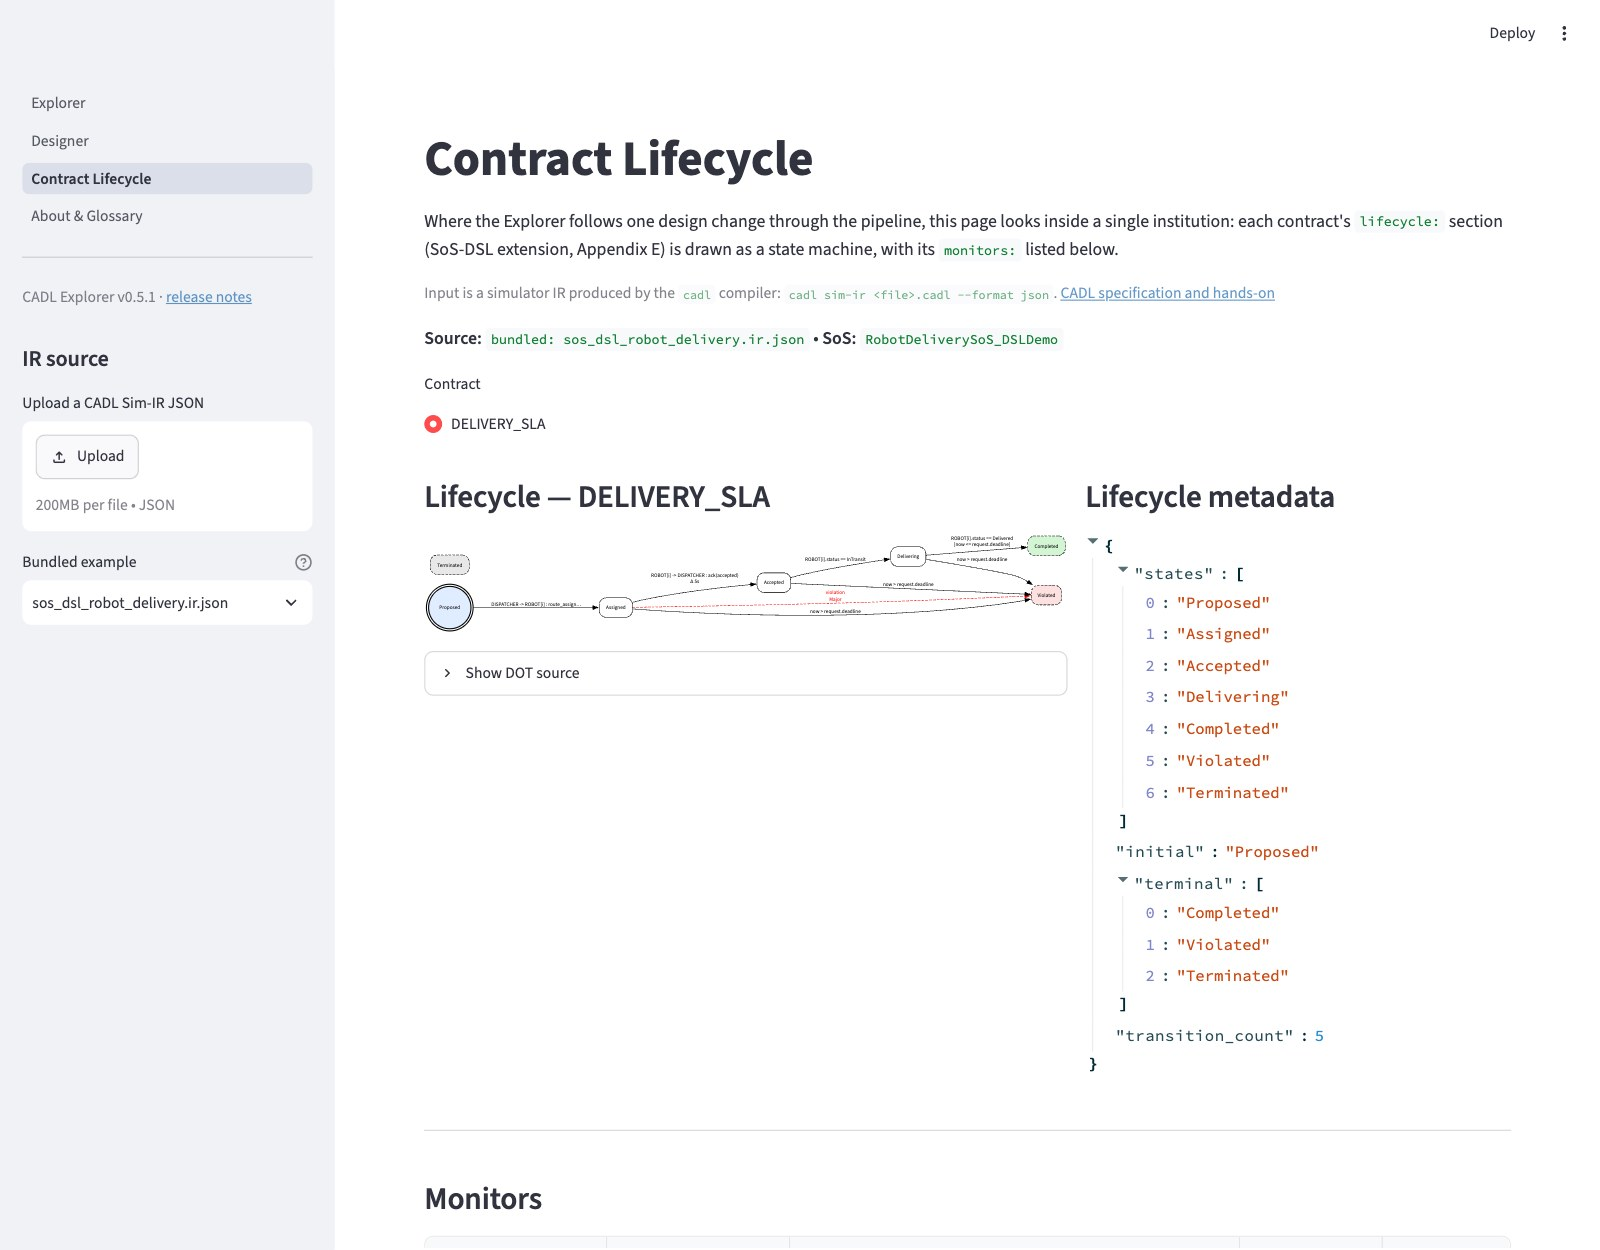
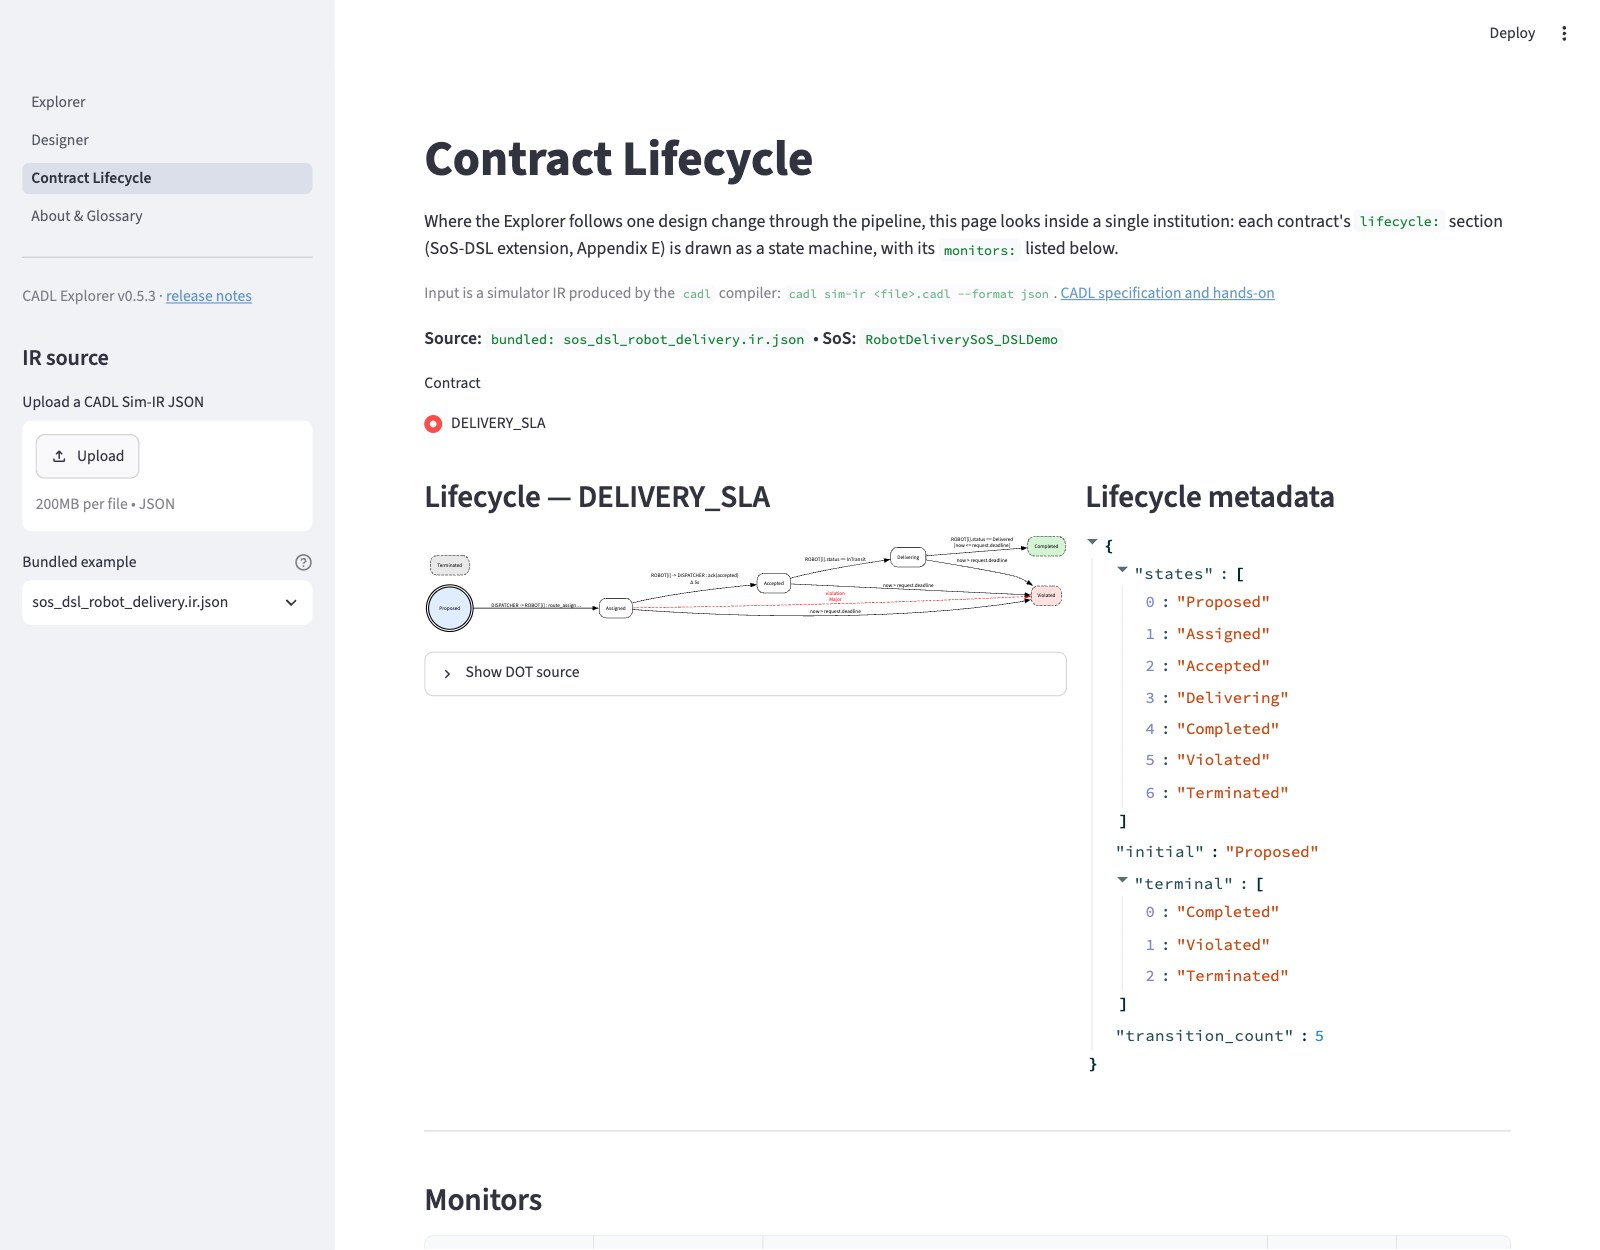
Review round 11: describe cadl 0.3.13 and CADL Explorer v0.5.3; fixes (#37)
Specification (EN and JA):
- 5.2.4: else branch and barrier condition are retained from cadl 0.3.10
- glossary autonomy: checked from 0.3.10; used by sim-gen -t go
- 6.2.2: item (7) for the id and value checks of A.12
- A.12: when: and non-message on: are not checked for actors; unquoted
  true / false names before 0.3.13; checked against 0.3.13
- E.4: what earlier releases did with unreadable deadlines
- E.7: the IR excerpt shows violation_detect / violation_action
- version mentions: cadl 0.3.13

Hands-on and Quick Start (EN and JA):
- CADL Explorer v0.5.3; the three Explorer screenshots retaken from it
  (current monitor rule, version in the sidebar)
- Course B section 3: what the excerpt omits

README: deployment section describes how this site is published.

Every changed statement was checked against cadl 0.3.13, CADL Explorer
v0.5.3 and the Course B file before merging.

diff --git a/i18n/ja/docusaurus-plugin-content-docs/current/spec/appendix-a-syntax.md b/i18n/ja/docusaurus-plugin-content-docs/current/spec/appendix-a-syntax.md
@@ -380,16 +380,18 @@ AND    OR    NOT    true    false    for all    exists    in
 項目の中では，名前が添字付きである（`ROBOT[i]`）か，メンバーアクセスの対象である
 （`ROBOT.battery`）とき，添字の中に現れる場合も含めて，その名前はアクターへの参照と
 みなされ，宣言されていなければならない。単独で現れる名前は状態変数とみなされ，
-検査されない。`condition:`，`safety_invariant:`，`formula:`，`expr:`，およびモニターの
-`rule:` の述語については，未宣言のアクターの検査を行わない。それ以外の必須キーが
-欠けている場合は，空の値で置き換える。`cadl` 0.3では，次の点で本付録と相違する（`cadl` 0.3.12で確認）。
+検査されない。`condition:`，`safety_invariant:`，`formula:`，`expr:`，モニターの
+`rule:`，ライフサイクルの `when:`，およびメッセージイベントでない `on:` の述語については，未宣言のアクターの検査を行わない。それ以外の必須キーが
+欠けている場合は，空の値で置き換える。`cadl` 0.3では，次の点で本付録と相違する（`cadl` 0.3.13で確認）。
 
-- **式。** `cadl` 0.3.12では，式はA.10とA.11に従う。既知の相違はない。
+- **式。** `cadl` 0.3.13では，式はA.10とA.11に従う。既知の相違はない。
 - **識別子。** `cadl` 0.3.9からは，`cadl check` は，アクター，契約，プロトコル，メトリクスのid，
   および運用モードの名前が，A.1の識別子でない場合（たとえば非ASCII文字やハイフンを含む場合），
   またはA.11の予約語か[付録E](./appendix-e-sos-dsl.md)の `IN` である場合に，エラーとして報告する。
   `cadl` 0.3.10からは，ライフサイクルの状態の名前，ライフサイクルの遷移とモニターのid，
   およびモニターの違反ラベルにも同じ検査が適用される。検証項目のidは検査されない。
+  `cadl` 0.3.12までは，これらの名前や運用モードの名前に引用符なしで書いた `true` / `false` は
+  YAMLが真偽値として読み，`True` / `False` という名前として受理されていた。
 - **範囲。** 上限が記号である範囲（`"TAXI[1..N]"`）は，書かれたとおりに保持される。
   `N` を `environment:` から引くことはなく，添字が宣言された範囲に収まるかどうかも
   検査されない。`cadl sim-gen` が `count` を出力するのは，両端が整数のときだけである。

diff --git a/i18n/ja/docusaurus-plugin-content-docs/current/spec/05-language-spec.md b/i18n/ja/docusaurus-plugin-content-docs/current/spec/05-language-spec.md
@@ -158,7 +158,7 @@ sos:
       expr: "weekly_reward >= 0 AND weekly_reward <= 400"
 ```
 
-このブロックを追加したファイルを，`cadl verify`（`cadl` 0.3.12）は受理し，2つの項目をどちらも合格と報告する。`expr:` を持つ項目については，述語が充足可能であることだけを検査し，モデルに対して証明することはしない（[付録AのA.12節](./appendix-a-syntax.md#a12-reference-implementation-status-v03)）。
+このブロックを追加したファイルを，`cadl verify`（`cadl` 0.3.13）は受理し，2つの項目をどちらも合格と報告する。`expr:` を持つ項目については，述語が充足可能であることだけを検査し，モデルに対して証明することはしない（[付録AのA.12節](./appendix-a-syntax.md#a12-reference-implementation-status-v03)）。
 
 [7.1節](./07-examples.md)は，検証レベルが目指す矛盾検出を例示する（[1.2節の目的2](./01-introduction.md#目的2-sosの制度違反や矛盾を計算できるようにする)）。7.1節の記述例は概念的なものであり，A.8節のキーとは異なるキーを用いている（第7章冒頭の注記を参照）。このように，同一の制度が利用者のニーズに応じて異なる粒度で記述でき，AIが概要レベルから設計・検証レベルへの精緻化を支援する。
 
@@ -289,7 +289,7 @@ contracts:
 - **`parallel:`** — その下に並べたステップは互いの順序が定まっておらず，それらがすべて完了するとプロトコルは先へ進む。
 - **`barrier:`** — 同期点である。与えた条件が成り立つときにだけ，プロトコルは先へ進む。
 
-リファレンス実装（`cadl` 0.3）は，`else:` の分岐とバリアの条件を保持しない（[付録AのA.12節](./appendix-a-syntax.md#a12-reference-implementation-status-v03)）。
+`cadl` 0.3.10からは，リファレンス実装は `else:` の分岐とバリアの条件を保持する。それより前のリリースは，これらを捨てていた（[付録AのA.12節](./appendix-a-syntax.md#a12-reference-implementation-status-v03)）。
 
 ```yaml
 protocols:

diff --git a/docs/spec/appendix-a-syntax.md b/docs/spec/appendix-a-syntax.md
@@ -413,11 +413,12 @@ must be declared, when it is indexed (`ROBOT[i]`) or is the object of a
 member access (`ROBOT.battery`), including inside an index; a name
 standing alone is taken as a state variable and is not checked. The
 predicates of `condition:`, `safety_invariant:`, `formula:`, `expr:`,
-and monitor `rule:` are not checked for undeclared actors. Other
+monitor `rule:`, lifecycle `when:`, and an `on:` that is not a message
+event are not checked for undeclared actors. Other
 missing required keys are replaced by an empty value. `cadl` 0.3
-deviates from this appendix as follows (checked against `cadl` 0.3.12).
+deviates from this appendix as follows (checked against `cadl` 0.3.13).
 
-- **Expressions.** Expressions follow A.10 and A.11 in `cadl` 0.3.12; no
+- **Expressions.** Expressions follow A.10 and A.11 in `cadl` 0.3.13; no
   deviation is known.
 - **Identifiers.** From `cadl` 0.3.9, `cadl check` reports as an error
   an actor, contract, protocol, or metric id, or a regime name, that is
@@ -426,7 +427,9 @@ deviates from this appendix as follows (checked against `cadl` 0.3.12).
   [Appendix E](./appendix-e-sos-dsl.md). From `cadl` 0.3.10 the same
   check applies to the names of lifecycle states, the ids of lifecycle
   transitions and monitors, and the violation labels of monitors. The
-  ids of verification entries are not checked.
+  ids of verification entries are not checked. Up to `cadl` 0.3.12 an
+  unquoted `true` or `false` used as such a name or as a regime name was
+  read by YAML as a boolean, became `True` / `False`, and was accepted.
 - **Ranges.** A range with a symbolic bound (`"TAXI[1..N]"`) is kept as
   written. `N` is not looked up in `environment:`, and an index is not
   checked against the declared range. `cadl sim-gen` writes a `count`

diff --git a/i18n/ja/docusaurus-plugin-content-docs/current/spec/appendix-e-sos-dsl.md b/i18n/ja/docusaurus-plugin-content-docs/current/spec/appendix-e-sos-dsl.md
@@ -187,8 +187,7 @@ Unity C#ジェネレータと一致する。このジェネレータは，その
 `Minor`，`Major`，`Critical` 以外の `severity:` をエラーとして報告する。`cadl` 0.3.12からは，
 `duration_lit` でない `deadline:`（負でない秒数は寛容な形式として受理する。[付録A §A.12](./appendix-a-syntax.md#a12-reference-implementation-status-v03)）と，
 `sampling_spec`（またはA.12のマッピング形式）でない `sampling:` もエラーとして報告する。
-それより前のリリースは，そのような `deadline:` を捨てて期限のないIRにし，そのような `sampling:` を
-`event` として読んでいた。0.3.10より前のリリースは，規則L-1からM-3までを検査しなかった。
+それより前のリリースは，そのような `deadline:` を受理し，IRに期限を書かないか，`yes` / `no` や負の数では意味のない期限（`yes`，`no`，`-5` に対してそれぞれ1000 ms，0 ms，-5000 ms）を書いていた。また，そのような `sampling:` を `event` として読んでいた。0.3.10より前のリリースは，規則L-1からM-3までを検査しなかった。
 
 ## E.5 動的意味論（参考） {/* #e5-dynamic-semantics-informative */}
 
@@ -319,6 +318,8 @@ IRは表層構文を正規化し，入れ子になった `on_violation` / `on_ma
         "assume": [...],
         "guarantee": [...],
         "governance": {...},
+        "violation_detect": "...",
+        "violation_action": "...",
         "lifecycle": {
           "states":   ["Proposed", "Assigned", "Accepted", "Delivering",
                        "Completed", "Violated", "Terminated"],

diff --git a/i18n/ja/docusaurus-plugin-content-docs/current/spec/06-design.md b/i18n/ja/docusaurus-plugin-content-docs/current/spec/06-design.md
@@ -64,7 +64,7 @@ YAMLベースの構文を解析し，CADL固有の制約式・プロトコルス
 
 ### 6.2.2 型検査器
 
-型検査は以下の項目を検査する: (1) アクター参照の存在確認，(2) 契約当事者の重複・不在検出，(3) プロトコルステップの送受信者がアクター定義に一致すること，(4) 情報共有宣言が定義済みのアクターを参照していること，(5) 制度パラメータの値域制約（0 ≤ α, β, λ ≤ 1），(6) `cadl` 0.3.10からは，SoS-DSL拡張の静的意味論（[付録EのE.4節](./appendix-e-sos-dsl.md#e4-static-semantics)）。情報共有宣言と実際のメッセージ交換との整合性の検査は計画段階である。
+型検査は以下の項目を検査する: (1) アクター参照の存在確認，(2) 契約当事者の重複・不在検出，(3) プロトコルステップの送受信者がアクター定義に一致すること，(4) 情報共有宣言が定義済みのアクターを参照していること，(5) 制度パラメータの値域制約（0 ≤ α, β, λ ≤ 1），(6) `cadl` 0.3.10からは，SoS-DSL拡張の静的意味論（[付録EのE.4節](./appendix-e-sos-dsl.md#e4-static-semantics)），(7) idと値に関するその他の検査（重複したid，識別子，`sharing:` の要素，`autonomy:`，`severity:`，`deadline:` / `sampling:` の値。[付録AのA.12節](./appendix-a-syntax.md#a12-reference-implementation-status-v03)に示す）。情報共有宣言と実際のメッセージ交換との整合性の検査は計画段階である。
 
 ### 6.2.3 その他のコマンド
 

diff --git a/i18n/ja/docusaurus-plugin-content-docs/current/quickstart/index.md b/i18n/ja/docusaurus-plugin-content-docs/current/quickstart/index.md
@@ -15,7 +15,7 @@ title: "クイックスタート"
 
 ## 経路 A — ブラウザで試す（CADL Explorer） {/* #path-a */}
 
-**[CADL Explorer](https://cadl-explorer.streamlit.app/)** を使えばインストールは不要です。以下の手順は CADL Explorer v0.5.1 の画面にもとづいています（公開アプリでは，サイドバーのページ一覧の下に版が表示されます）。
+**[CADL Explorer](https://cadl-explorer.streamlit.app/)** を使えばインストールは不要です。以下の手順は CADL Explorer v0.5.3 の画面にもとづいています（公開アプリでは，サイドバーのページ一覧の下に版が表示されます）。
 
 ### A-1. CADL Explorer を開く
 
@@ -136,7 +136,7 @@ motivation:
 
 ## 経路 B — CLI で書いて検査する {/* #path-b */}
 
-リファレンス実装はコマンドラインツール `cadl` で，PyPI では `cadl-lang` という名前で配布しています。以下の出力は cadl 0.3.12 のものです。
+リファレンス実装はコマンドラインツール `cadl` で，PyPI では `cadl-lang` という名前で配布しています。以下の出力は cadl 0.3.13 のものです。
 
 ### B-1. インストール
 

diff --git a/docs/spec/appendix-e-sos-dsl.md b/docs/spec/appendix-e-sos-dsl.md
@@ -215,8 +215,10 @@ told from a message name, and the actors named inside a `rule:` or
 `deadline:` that is not a `duration_lit` (a non-negative number of
 seconds is accepted as a lenient form, [Appendix A §A.12](./appendix-a-syntax.md#a12-reference-implementation-status-v03)) and a
 `sampling:` that is not a `sampling_spec` (or the mapping form of
-A.12); earlier releases dropped such a `deadline:`, so that the IR had
-no deadline, and read such a `sampling:` as `event`. Releases before
+A.12); earlier releases accepted such a `deadline:` and put no deadline
+in the IR or, for `yes` / `no` and negative numbers, a meaningless one
+(1000, 0 and -5000 ms for `yes`, `no` and `-5`), and read such a
+`sampling:` as `event`. Releases before
 0.3.10 did not check rules L-1 to M-3.
 
 ## E.5 Dynamic semantics (informative)
@@ -357,6 +359,8 @@ generators that read it field-by-field):
         "assume": [...],
         "guarantee": [...],
         "governance": {...},
+        "violation_detect": "...",
+        "violation_action": "...",
         "lifecycle": {
           "states":   ["Proposed", "Assigned", "Accepted", "Delivering",
                        "Completed", "Violated", "Terminated"],

diff --git a/docs/spec/05-language-spec.md b/docs/spec/05-language-spec.md
@@ -186,7 +186,7 @@ the same indentation as `protocols:`.
       expr: "weekly_reward >= 0 AND weekly_reward <= 400"
 ```
 
-With this block appended, `cadl verify` (`cadl` 0.3.12) accepts the file and
+With this block appended, `cadl verify` (`cadl` 0.3.13) accepts the file and
 reports both entries as passed. For the entry with `expr:` it checks
 only that the predicate is satisfiable; it does not prove it against
 the model
@@ -352,8 +352,9 @@ five kinds of step.
 - **`barrier:`** — a synchronisation point: the protocol continues only
   when the given condition holds.
 
-The reference implementation (`cadl` 0.3) does not retain the `else:` branch
-or the barrier condition ([Appendix A, §A.12](./appendix-a-syntax.md#a12-reference-implementation-status-v03)).
+From `cadl` 0.3.10 the reference implementation retains the `else:` branch
+and the barrier condition; earlier releases discarded them
+([Appendix A, §A.12](./appendix-a-syntax.md#a12-reference-implementation-status-v03)).
 
 ```yaml
 protocols:

diff --git a/docs/spec/06-design.md b/docs/spec/06-design.md
@@ -88,7 +88,10 @@ Protocol step senders/receivers match actor definitions, (4) Information
 sharing declarations refer to defined actors, (5) Value constraints for
 institutional parameters (0 ≤ α, β, λ ≤ 1), (6) from `cadl` 0.3.10, the
 static semantics of the SoS-DSL extension
-([Appendix E, Section E.4](./appendix-e-sos-dsl.md#e4-static-semantics)). Checking information sharing
+([Appendix E, Section E.4](./appendix-e-sos-dsl.md#e4-static-semantics)), (7) further checks of ids and values —
+duplicate ids, identifiers, `sharing:` entries, `autonomy:`, `severity:`, and the
+`deadline:` / `sampling:` values — listed in
+[Appendix A, §A.12](./appendix-a-syntax.md#a12-reference-implementation-status-v03). Checking information sharing
 declarations against the actual message exchanges is planned.
 
 ### 6.2.3 Other Commands

diff --git a/docs/spec/glossary.md b/docs/spec/glossary.md
@@ -40,7 +40,10 @@ explanations and examples, see
   Defined in [Section 5.2.2](./05-language-spec.md#522-actor-model) and
   [Appendix A, §A.3](./appendix-a-syntax.md#a3-context-actors-metrics).
 - **`autonomy`** — Actor attribute: `low`, `medium`, or `high` (default
-  `medium`). A descriptive label; it is not checked.
+  `medium`). From `cadl` 0.3.10 a value other than these three is an
+  error; the value is not checked against β or anything else.
+  `cadl sim-gen -t go` uses it to give the actor only the central
+  algorithm (`low`), only the local one (`high`), or both (`medium`).
 - **Contract** — Assume-guarantee constraint attached to a set of
   parties and an authority. The formal unit of institutional design.
   Defined in [Section 5.2.3](./05-language-spec.md#523-contract-model) and
